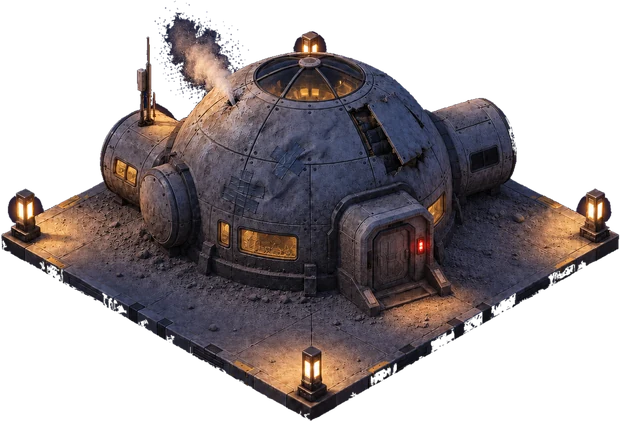
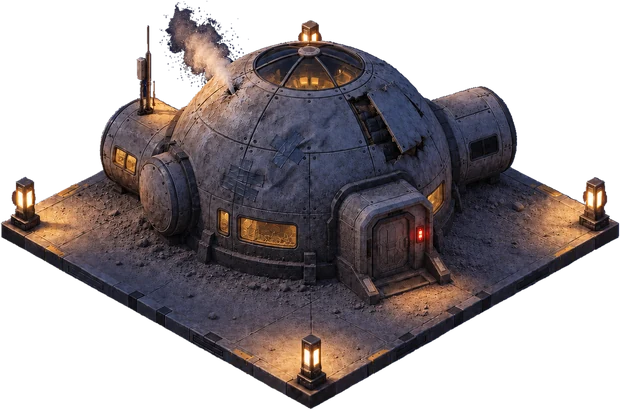
Moon night images for the lab, greenhouse and solar stages
Every Moon building now has its own night image. process.py also scales
and moves a platform sideways onto the pad's (the lab's night image came
4.5% too big, on a different canvas), and a night image takes its day
image's outline: the lab's dark walls had been cut away as background.

diff --git a/src/ui/BaseView.tsx b/src/ui/BaseView.tsx
@@ -167,15 +167,14 @@ const MOON_LIGHT = '0.94 0 0 0 0  0 1.01 0 0 0  0 0 1.09 0 0  0 0 0 1 0'
 // keeps the first set until its own comes. Each is built on a copy of the
 // cargo pad's platform, so all share the pad's scale, and art/process.py
 // cuts a building's stages and its day and night to one box, so they share
-// a size and anchor. A building with no night image yet is dimmed at night
-// like the ground.
+// a size and anchor.
 type BuildingId = 'habitat' | 'solar' | 'reactor' | 'greenhouse' | 'lab'
-const MOON_SET: Record<BuildingId, Pick<Sprite, 'px' | 'anchor'> & { night: boolean }> = {
-  habitat: { px: [620, 422], anchor: [0.501, 0.566], night: true },
-  solar: { px: [620, 366], anchor: [0.501, 0.501], night: false },
-  reactor: { px: [619, 470], anchor: [0.501, 0.612], night: true },
-  greenhouse: { px: [619, 364], anchor: [0.501, 0.499], night: false },
-  lab: { px: [619, 410], anchor: [0.501, 0.553], night: false },
+const MOON_SET: Record<BuildingId, Pick<Sprite, 'px' | 'anchor'>> = {
+  habitat: { px: [620, 410], anchor: [0.5, 0.554] },
+  solar: { px: [620, 366], anchor: [0.5, 0.501] },
+  reactor: { px: [619, 461], anchor: [0.501, 0.604] },
+  greenhouse: { px: [619, 364], anchor: [0.501, 0.499] },
+  lab: { px: [619, 410], anchor: [0.501, 0.553] },
 }
 
 // Two buildings change with the game: the habitat shows the base's
@@ -193,11 +192,12 @@ function solarStage(game: GameState) {
 
 function buildingSprites(game: GameState): Record<BuildingId, Sprite> {
   if (game.scenario.id !== 'moon') return SPRITES
-  const moon = (id: BuildingId, file: string): Sprite => {
-    const { px, anchor, night } = MOON_SET[id]
-    const name = night ? `moon/${file}` : `moon/${file}-day`
-    return { name, px, anchor, single: !night, scale: MOON_SET_SCALE, daylight: 'url(#moon-light)' }
-  }
+  const moon = (id: BuildingId, file: string): Sprite => ({
+    name: `moon/${file}`,
+    ...MOON_SET[id],
+    scale: MOON_SET_SCALE,
+    daylight: 'url(#moon-light)',
+  })
   const solar = `solar-${solarStage(game)}`
   return {
     habitat: moon('habitat', `habitat-${habitatStage(game.facilities.condition)}`),

diff --git a/art/process.py b/art/process.py
@@ -284,22 +284,48 @@ def bottom_edge(im: Image.Image) -> dict[int, int]:
     return edge
 
 
-def onto_the_pad(im: Image.Image, pad_edge: dict[int, int]) -> tuple[Image.Image, int]:
-    """Move a render up or down so its platform lies where the pad's does.
+def platform_sides(im: Image.Image) -> tuple[int, int]:
+    """The platform's left and right corners: the widest thing in a render."""
+    box = im.getchannel('A').point(lambda a: 255 if a > 128 else 0).getbbox()
+    return box[0], box[2]
 
-    The generator sometimes draws the platform a little higher in the frame
-    (the first solar stages came out 31px up), which would make it jump when
-    the game swaps stages. Found by sliding the platform's front edges onto
-    the pad's.
+
+def onto_the_pad(im: Image.Image, pad: Image.Image) -> tuple[Image.Image, str]:
+    """Scale and move a render so its platform lies where the pad's does.
+
+    The generator sometimes draws the platform a little off: higher in the
+    frame (the first solar stages came out 31px up), or larger and to one
+    side (the lab's night image, drawn 4.5% bigger on a wider canvas). Any
+    of these would make a building jump when the game swaps its images.
+    The width is matched from the platform's two side corners, the left
+    corner lined up, and the height found by sliding the platform's front
+    edges onto the pad's.
     """
-    edge = bottom_edge(im)
+    pad_left, pad_right = platform_sides(pad)
+    left, right = platform_sides(im)
+    scale = (pad_right - pad_left) / (right - left)
+    if abs(scale - 1) > 0.005:
+        im = im.resize((round(im.width * scale), round(im.height * scale)), Image.LANCZOS)
+        left = platform_sides(im)[0]
+    dx = pad_left - left
+
+    def placed(dy: int) -> Image.Image:
+        # A plain paste onto a clear canvas: it copies the pixels, alpha
+        # and all, and drops whatever falls outside the frame.
+        out = Image.new('RGBA', pad.size, (0, 0, 0, 0))
+        out.paste(im, (dx, dy))
+        return out
+
+    pad_edge = bottom_edge(pad)
+    edge = bottom_edge(placed(0))
     xs = [x for x in edge if x in pad_edge and 200 <= x <= 1050]
     dy = min(range(-60, 61), key=lambda d: sum(abs(edge[x] + d - pad_edge[x]) for x in xs))
-    if dy == 0:
-        return im, 0
-    moved = Image.new('RGBA', im.size, (0, 0, 0, 0))
-    moved.alpha_composite(im, (0, dy))
-    return moved, dy
+    changes = []
+    if abs(scale - 1) > 0.005:
+        changes.append(f'scaled x{scale:.3f}')
+    if dx or dy:
+        changes.append(f'moved {dx:+d}, {dy:+d}px')
+    return placed(dy), ', '.join(changes)
 
 
 def panels_only(im: Image.Image) -> Image.Image:
@@ -319,7 +345,7 @@ def panels_only(im: Image.Image) -> Image.Image:
 
 
 def cut_building_sets() -> None:
-    pad_edge = bottom_edge(drop_flat_background(Image.open(SRC / 'buildings' / 'lander-pad.png')))
+    pad = drop_flat_background(Image.open(SRC / 'buildings' / 'lander-pad.png'))
     for folder in sorted(p for p in (SRC / 'buildings').iterdir() if p.is_dir() and p.name != 'v1'):
         groups = collections.defaultdict(list)
         for src in sorted(folder.glob('*.png')):
@@ -327,9 +353,18 @@ def cut_building_sets() -> None:
         for name, srcs in groups.items():
             cut = {}
             for src in srcs:
-                cut[src.stem], dy = onto_the_pad(drop_flat_background(Image.open(src)), pad_edge)
-                if dy:
-                    print(f'{folder.name}/{src.stem}: platform moved {dy:+d}px onto the pad\'s')
+                cut[src.stem], changes = onto_the_pad(drop_flat_background(Image.open(src)), pad)
+                if changes:
+                    print(f'{folder.name}/{src.stem}: platform {changes} onto the pad\'s')
+            # A night image is its day image with the lights on, lined up
+            # with it above, so it takes the day image's outline. A dark
+            # night render can be close to the background colour (the lab's
+            # shaded walls were cut away as background), and one outline for
+            # both keeps the building's edge still when night falls.
+            for stem in cut:
+                day = stem.replace('-night', '-day')
+                if stem.endswith('-night') and day in cut:
+                    cut[stem].putalpha(cut[day].getchannel('A'))
             box = cut[srcs[0].stem].getbbox()
             for im in cut.values():
                 box = union(box, im.getbbox())

diff --git a/art/ART-GUIDE.md b/art/ART-GUIDE.md
@@ -228,9 +228,13 @@ each made from its day image.
    framing or building art changed.
 
 For the second building set, `process.py` prints each building's size and
-anchor for `MOON_SET` in `BaseView.tsx`. It also moves any render whose
-platform came out higher or lower than the pad's back into place (the
-first solar stages came out 31px high), and prints when it does.
+anchor for `MOON_SET` in `BaseView.tsx`. It also scales and moves any
+render whose platform came out off the pad's back into place (the first
+solar stages came out 31px high; the lab's night image 4.5% too big, on a
+1312 x 1199 canvas), and prints when it does. A night image then takes
+its day image's outline instead of its own cut-out: dark night renders can
+be close to the background colour (the lab's shaded walls were cut away
+as background), and one outline keeps the edges still at nightfall.
 
 At night the game draws each lamp post's light on the ground around the
 platform (`LAMP_POSTS` in `BaseView.tsx`, in the lamps' own measured
